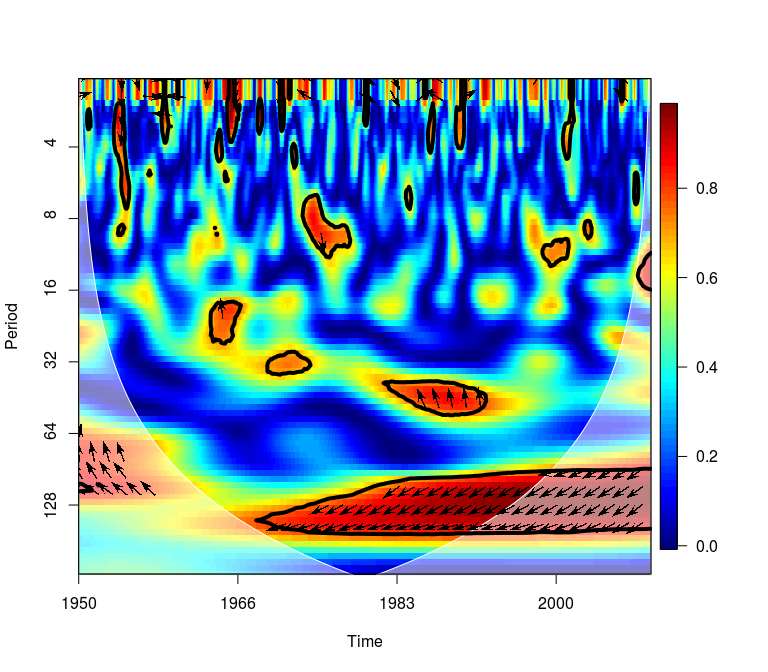
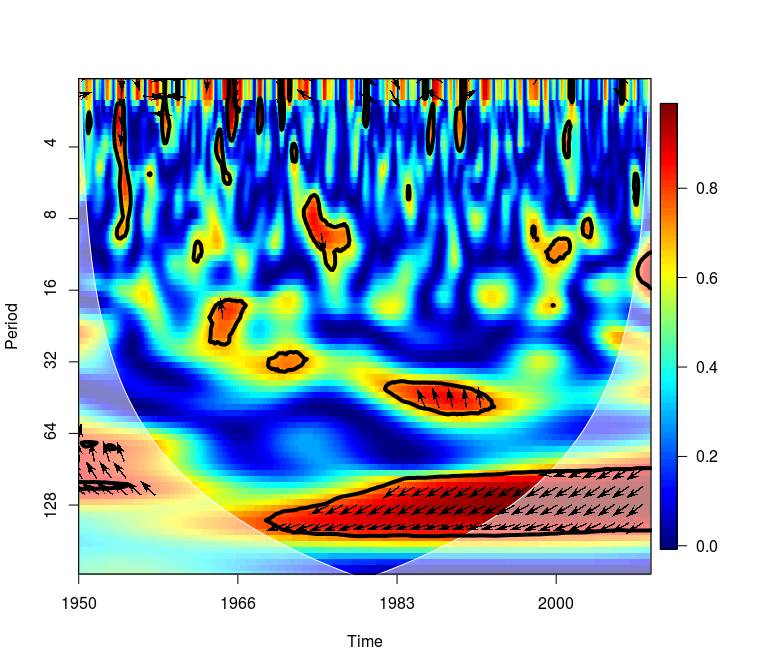
the R snippet for computing wtc(MEI, NPGO) is now visible on the website

diff --git a/README.md b/README.md
@@ -52,6 +52,15 @@ plot(wt1, type = "power.norm", main = "Biased wavelet power")
 This bias also affects the cross-wavelet, which can be used to determine the time- and frequency-resolved relationship between two time series. The new version of biwavelet implements the bias-correction developed by [Veleda et al. (2012)](#Veleda2012). The bias does not affect the wavelet coherence, however. For instance, MEI and NPGO undergo coherent fluctuations at periodicities of ~64-150 months (5-12 years) between 1966-2010, with peaks in NPGO leading peaks in MEI by one quarter of a cycle. For help interpreting these results, please see the references below and the biwavelet manual.
 
 ``` r
+data(enviro.data)
+MEI <- subset(enviro.data, select = c("date", "mei"))
+NPGO <- subset(enviro.data, select = c("date", "npgo"))
+
+# Compute wavelet coherence of MEI and NPGO using Monte Carlo randomization
+wtc.mei.npgo <- wtc(MEI, NPGO)
+```
+
+``` r
 # Make room to the right for the color bar
 par(oma = c(0, 0, 0, 1), mar = c(5, 4, 4, 5) + 0.1)
 plot(wtc.mei.npgo, plot.cb = TRUE, plot.phase = TRUE)
